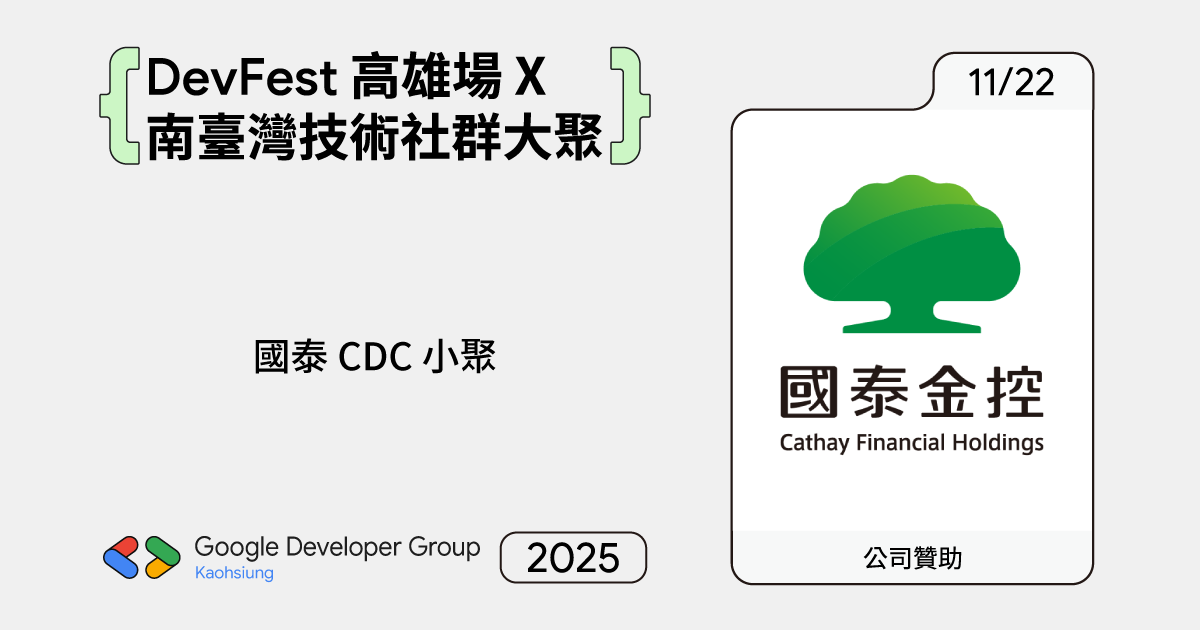
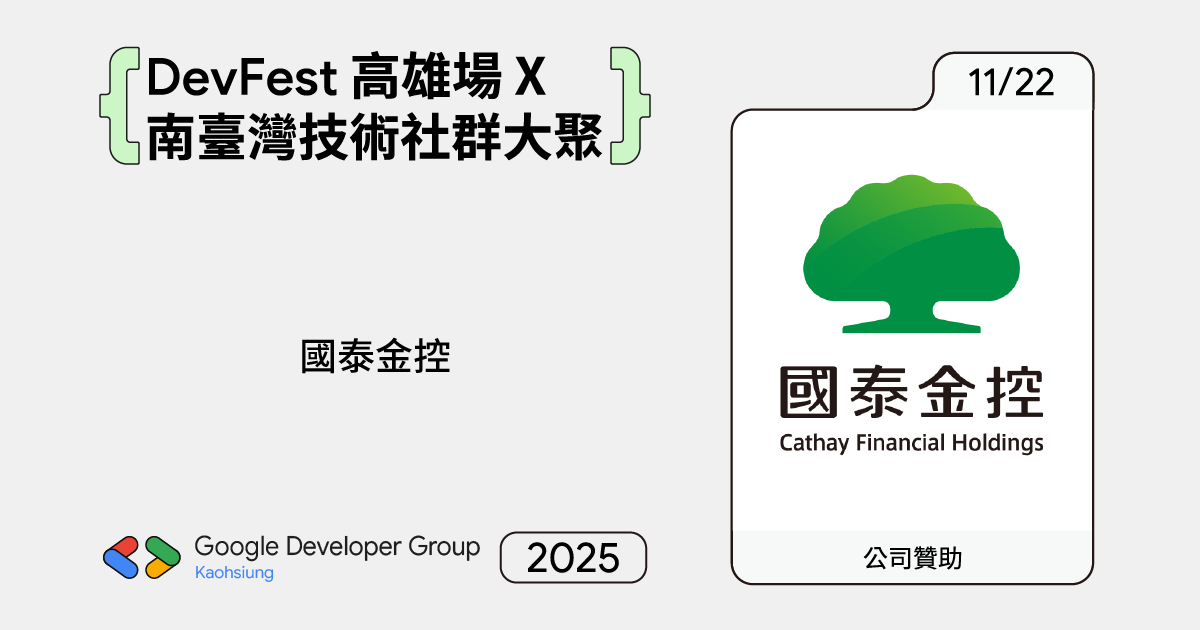
doc: 修改國泰分享資料

diff --git a/2025/share/thanks/cdc_kh/index.html b/2025/share/thanks/cdc_kh/index.html
@@ -4,14 +4,14 @@
     <meta charset="UTF-8" />
     <meta name="viewport" content="width=device-width, initial-scale=1.0" />
     <title id="pageTitle">
-      國泰 CDC 小聚 - DevFest Kaohsiung X S. TW Communities Gathering 2025
+      國泰金控 - DevFest Kaohsiung X S. TW Communities Gathering 2025
     </title>
 
     <!-- Open Graph / Facebook -->
     <meta property="og:type" content="website" />
     <meta property="og:url" content="https://gdgkh.cc/2025/share/thanks/cdc_kh/" id="ogUrl" />
     <meta
-      content="國泰 CDC 小聚 - DevFest 高雄場 X 南臺灣技術社群大聚 2025"
+      content="國泰金控 - DevFest 高雄場 X 南臺灣技術社群大聚 2025"
       id="ogTitle"
       property="og:title"
     />
@@ -27,7 +27,7 @@
     />
     <meta property="og:image:width" content="1200" />
     <meta property="og:image:height" content="630" />
-    <meta property="og:image:alt" content="國泰 CDC 小聚" id="ogImageAlt" />
+    <meta content="國泰金控" id="ogImageAlt" property="og:image:alt" />
 
     <!-- Twitter -->
     <meta property="twitter:card" content="summary_large_image" />
@@ -37,7 +37,7 @@
       property="twitter:url"
     />
     <meta
-      content="國泰 CDC 小聚 - DevFest 高雄場 X 南臺灣技術社群大聚 2025"
+      content="國泰金控 - DevFest 高雄場 X 南臺灣技術社群大聚 2025"
       id="twitterTitle"
       property="twitter:title"
     />
@@ -59,7 +59,7 @@
       name="description"
     />
     <meta
-      content="DevFest, Kaohsiung, 國泰 CDC 小聚, Thanks, Google Developer"
+      content="DevFest, Kaohsiung, 國泰金控, Thanks, Google Developer"
       id="metaKeywords"
       name="keywords"
     />
